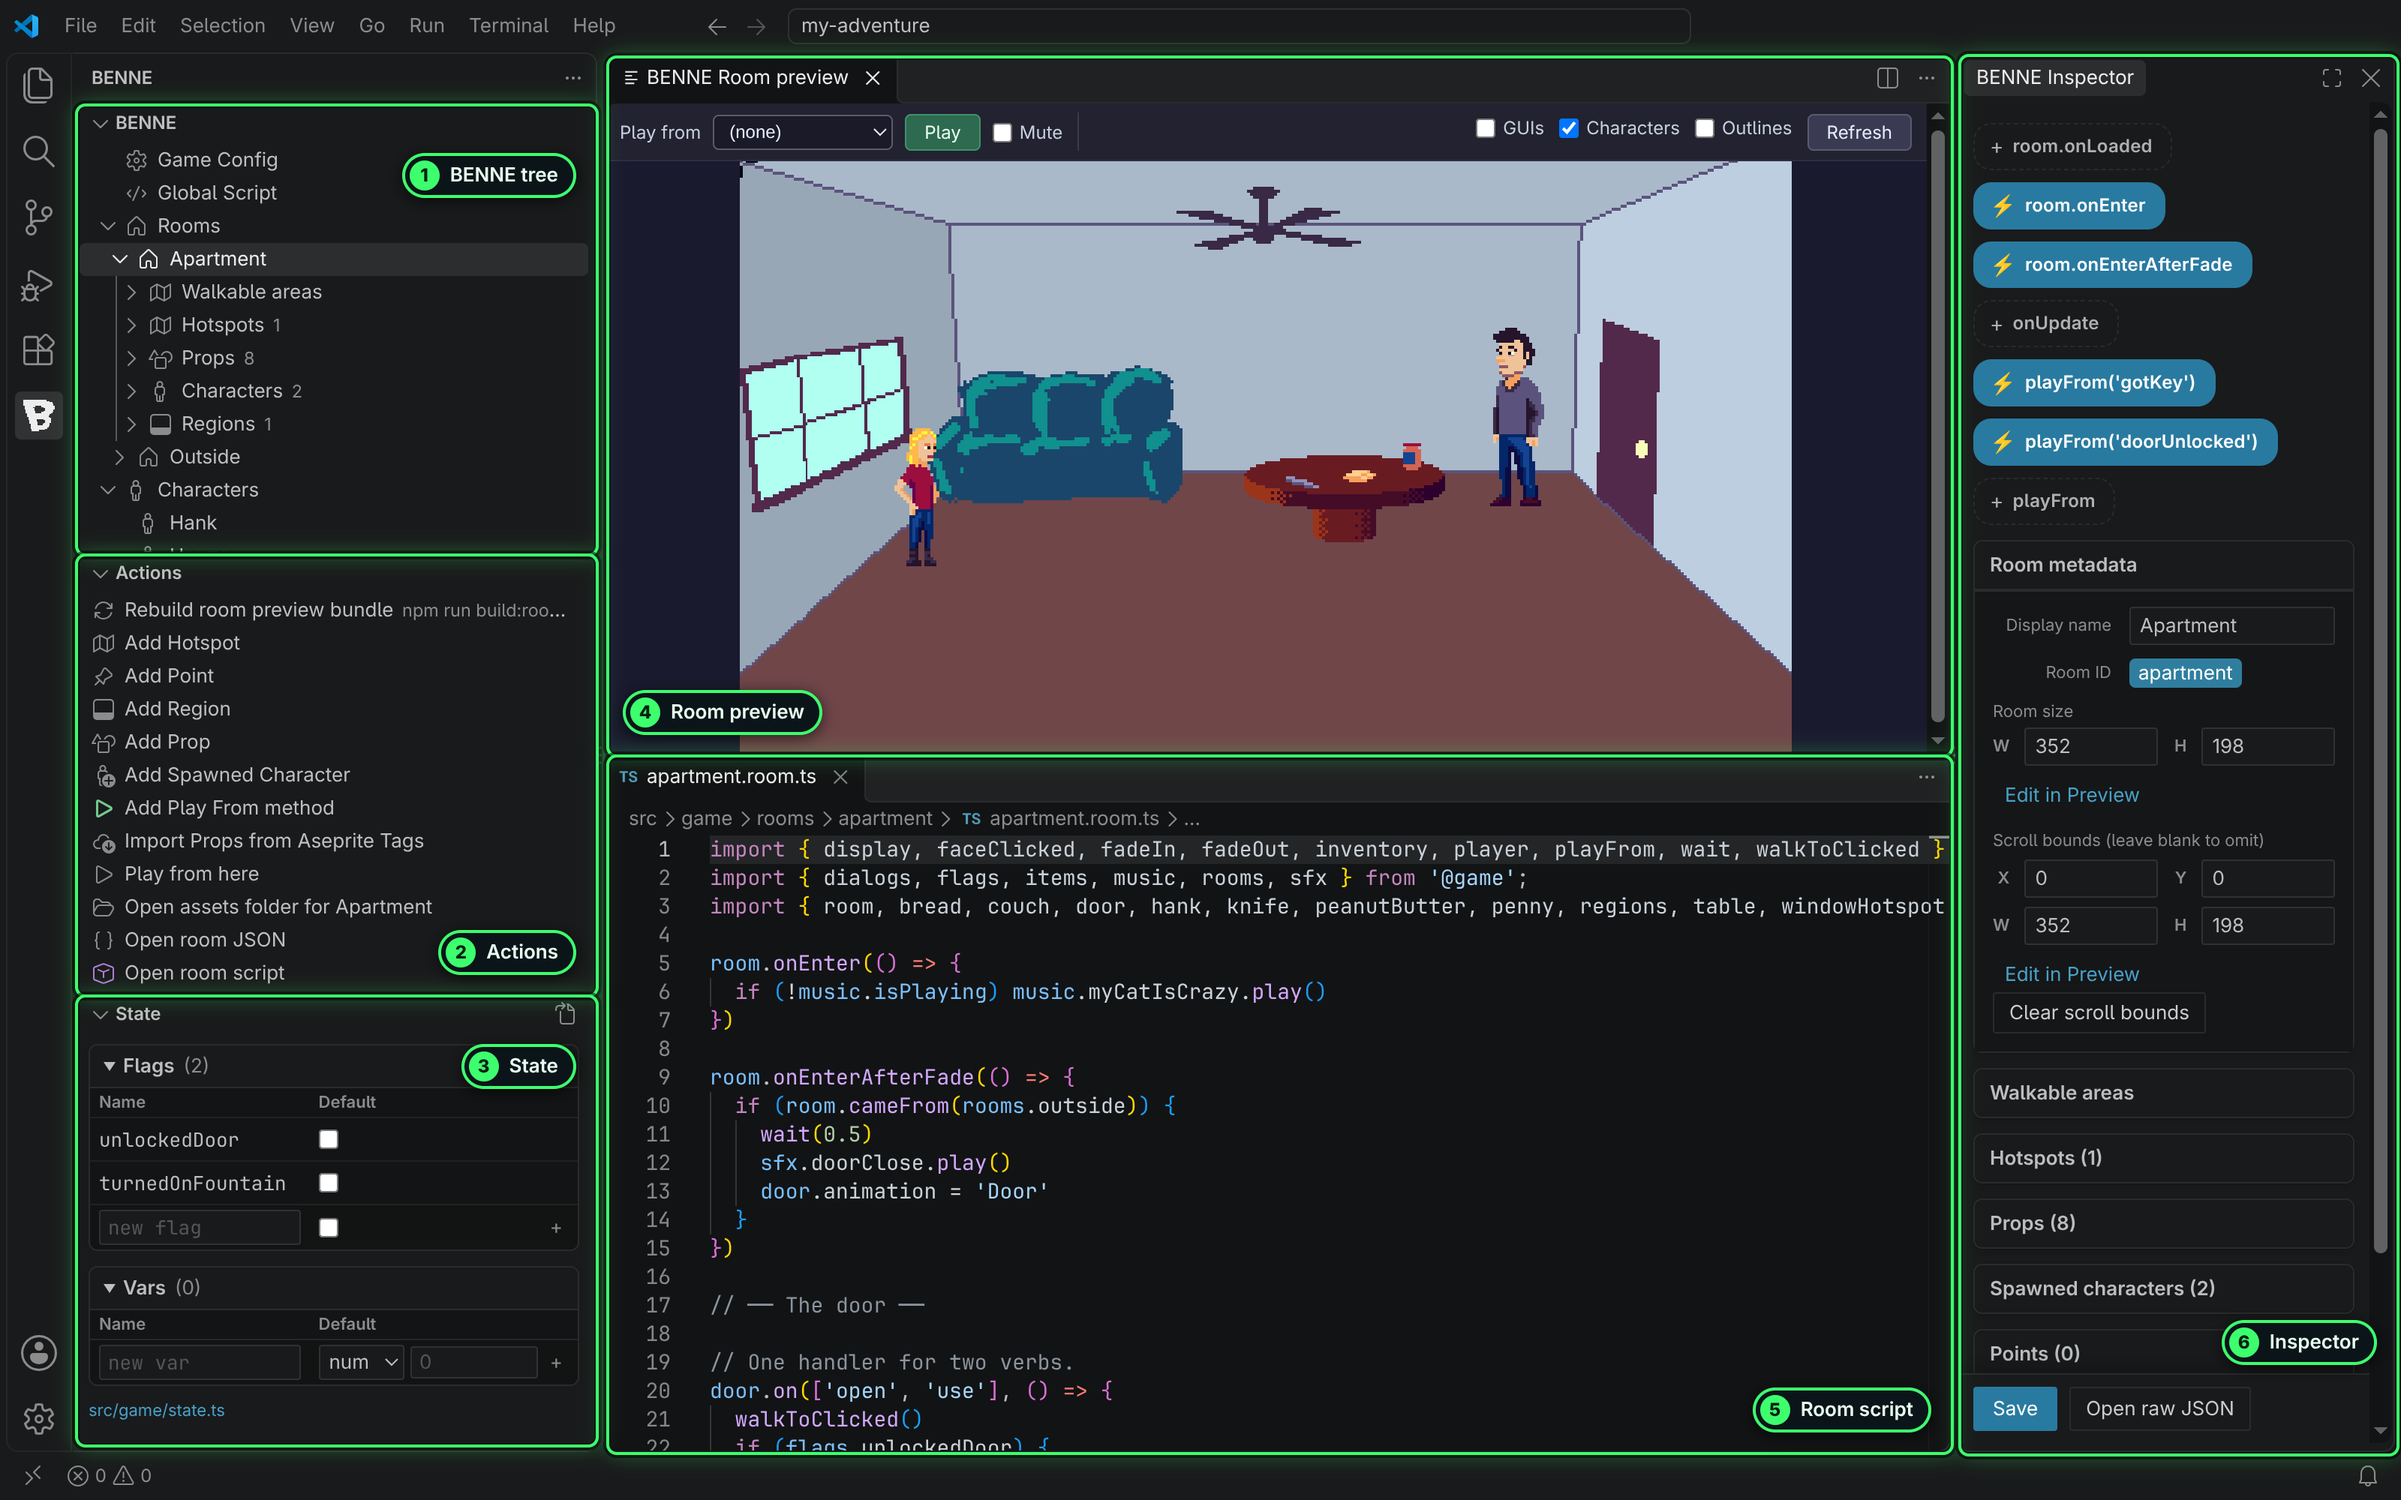
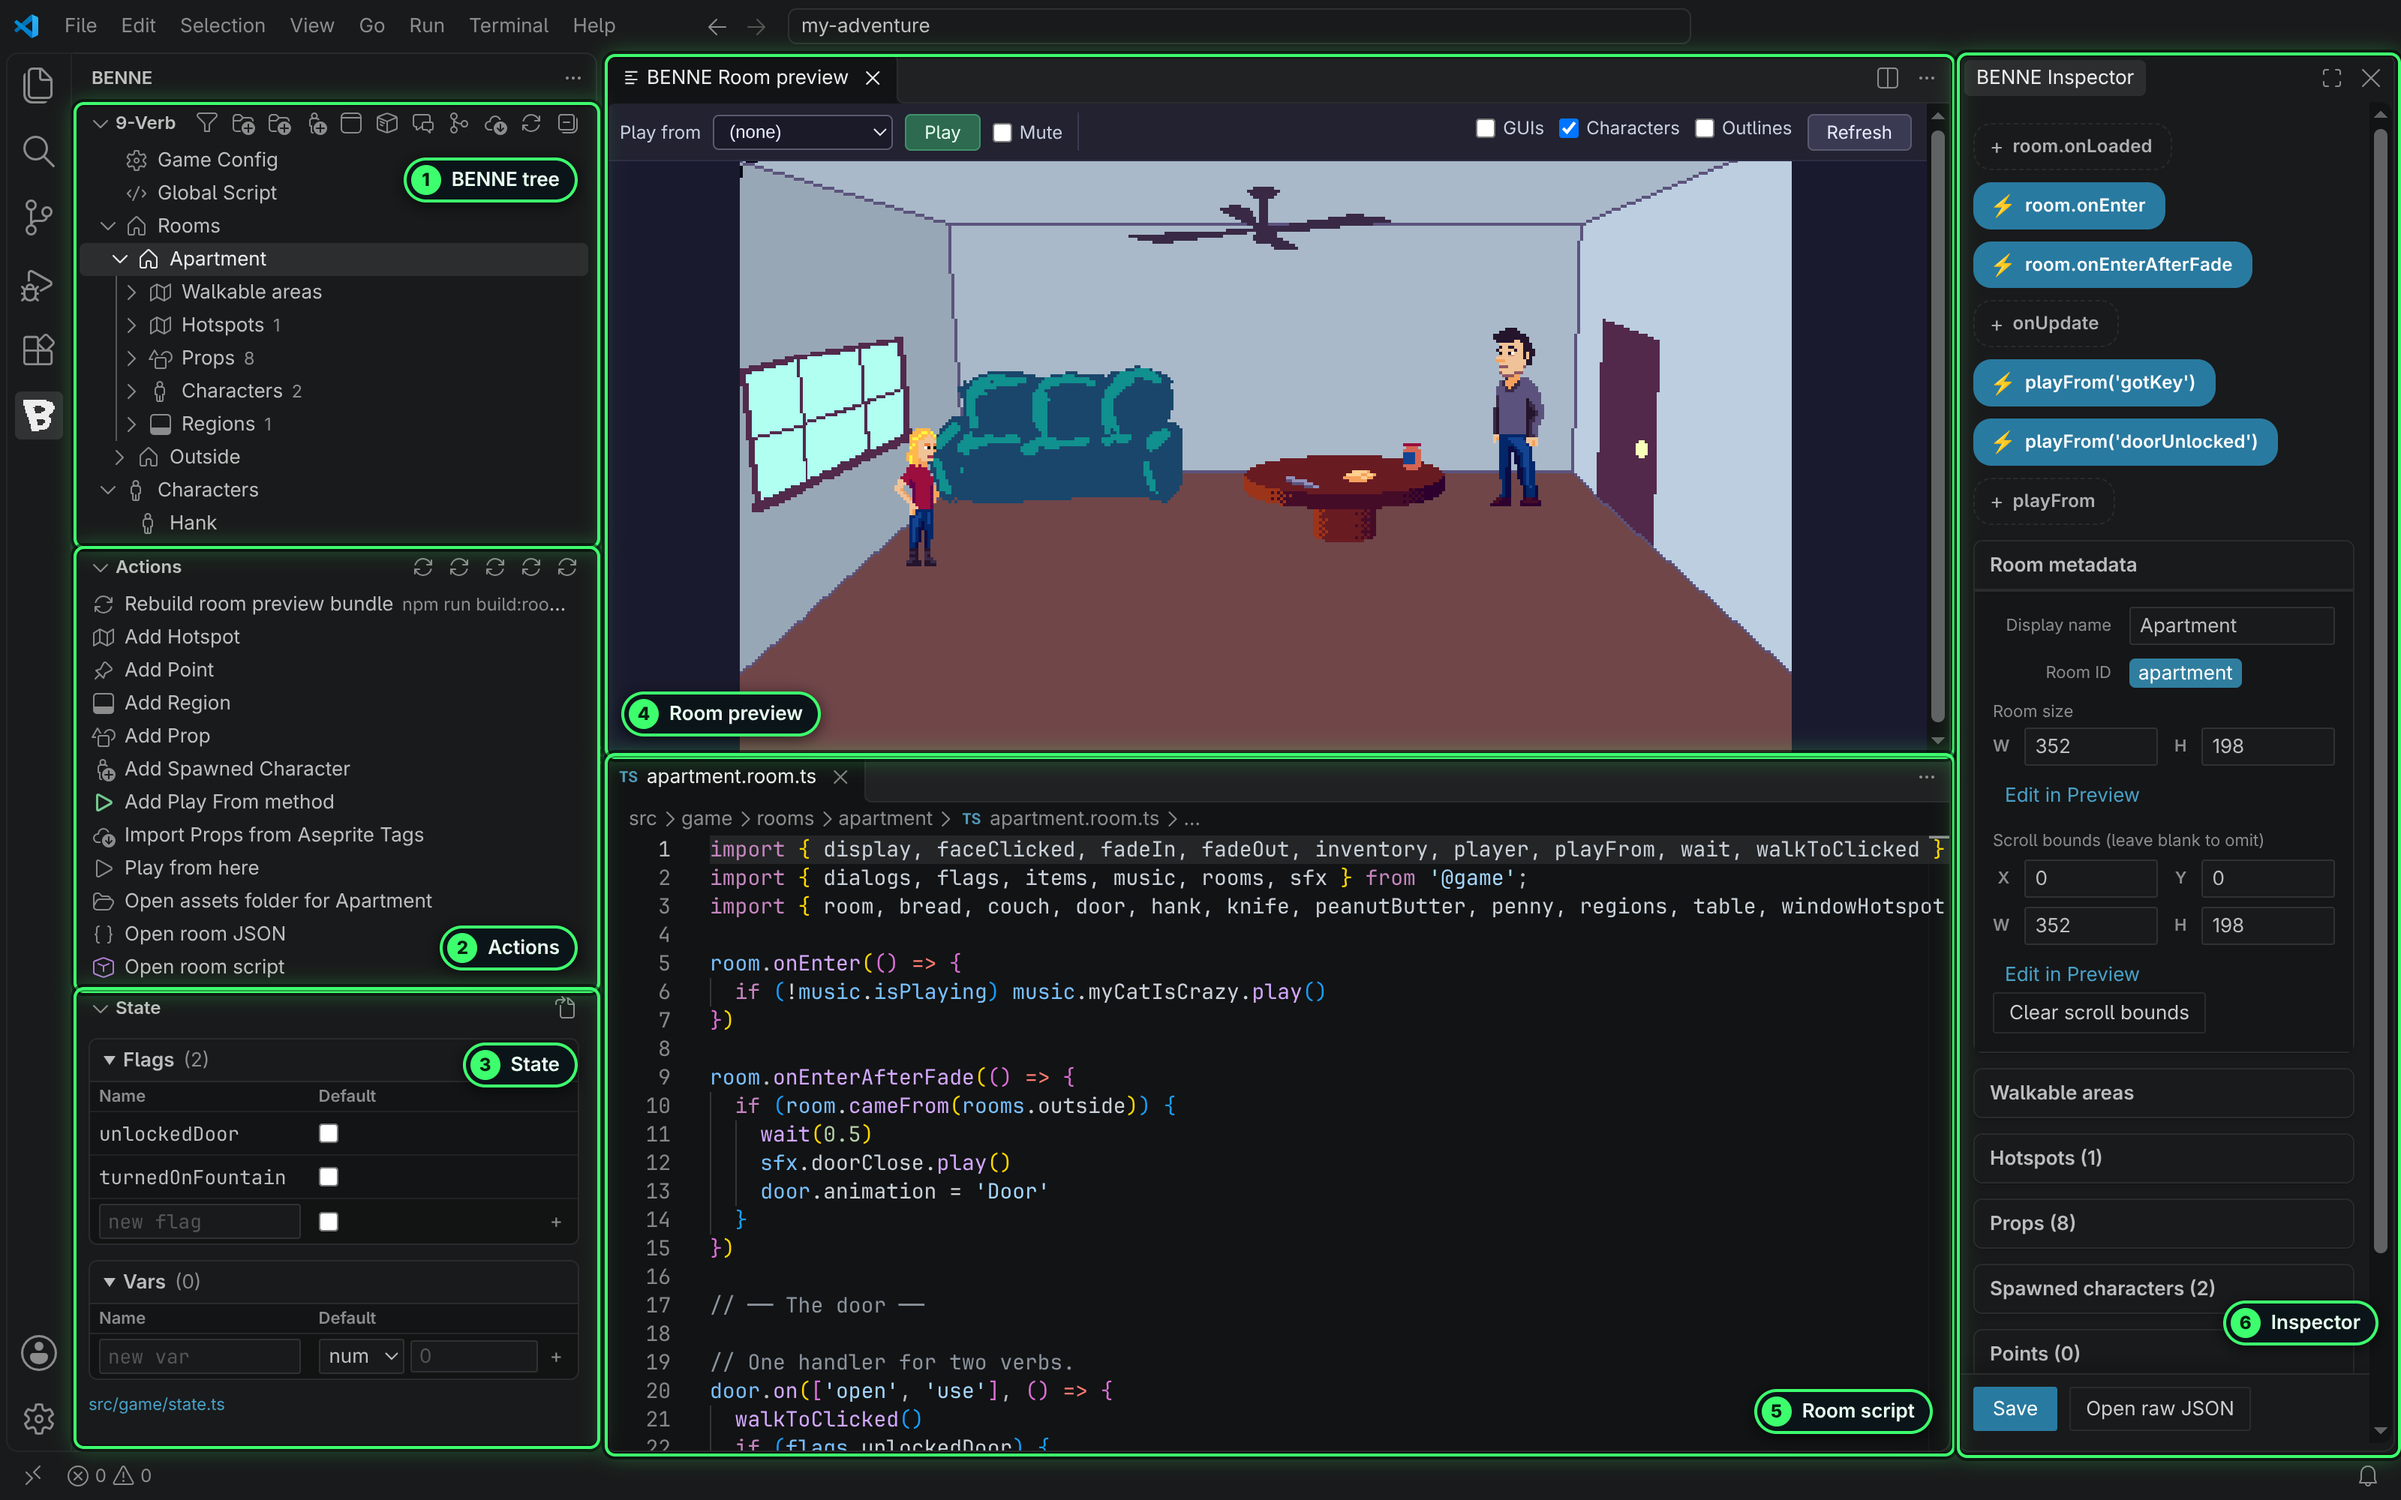
Title the BENNE tree with the game's name
With one game open, the main tree view's header shows the name from
game-config.json, falling back to "BENNE" when there is no name or the
workspace holds several games. Retake the guide screenshots that show the
header, and let the screenshot rig find the tree view without its title.

diff --git a/benne-editor/src/extension.ts b/benne-editor/src/extension.ts
@@ -39,12 +39,14 @@ import {
 import { addCharacterVerbEvent, makeCharacterClickable } from './characterVerbScaffolding';
 import { addInventoryVerbEvent } from './inventoryVerbScaffolding';
 import {
+    findBenneGameFolders,
     getCharacterIdFromCharacterJsonUri,
     getDialogIdFromDialogJsonUri,
     getGuiIdFromGuiJsonUri,
     getPdcIdFromPdcJsonUri,
     getInventoryIdFromInventoryJsonUri,
     getRoomIdFromRoomJsonUri,
+    readGameConfigName,
     readRoomProps
 } from './gameDiscovery';
 import { addRoomCharacterVerbEvent } from './roomCharacterVerbScaffolding';
@@ -197,6 +199,15 @@ export function activate(context: vscode.ExtensionContext): void {
     };
 
     void syncMainTreeFilterUi();
+
+    /** With one game open, the main view is titled with its game-config.json `name`. */
+    const syncMainTreeTitle = async (): Promise<void> => {
+        const gameFolders = await findBenneGameFolders();
+        const name = gameFolders.length === 1 ? await readGameConfigName(gameFolders[0].uri) : undefined;
+        mainTreeView.title = name ?? 'BENNE';
+    };
+
+    void syncMainTreeTitle();
 
     const actionsTreeView = vscode.window.createTreeView('benne-editor.actions', {
         treeDataProvider: actionsProvider,
@@ -562,6 +573,7 @@ export function activate(context: vscode.ExtensionContext): void {
         mainProvider.refresh();
         actionsProvider.refresh();
         void syncMainTreeFilterUi();
+        void syncMainTreeTitle();
         void inspectorProvider.pushState();
         scheduleGenerateGameIds(hintUri);
     };
@@ -1619,6 +1631,7 @@ export function activate(context: vscode.ExtensionContext): void {
 
     const gameConfigWatcher = vscode.workspace.createFileSystemWatcher('**/src/game/game-config.json');
     context.subscriptions.push(
+        vscode.workspace.onDidChangeWorkspaceFolders(() => void syncMainTreeTitle()),
         gameConfigWatcher,
         gameConfigWatcher.onDidChange((uri) => {
             scheduleAutoRoomPreviewRebuild(uri);

diff --git a/benne-editor/src/gameDiscovery.ts b/benne-editor/src/gameDiscovery.ts
@@ -201,6 +201,18 @@ export async function readGameConfigVerbs(gameRoot: vscode.Uri): Promise<GameCon
     }
 }
 
+/** `name` from `src/game/game-config.json`, or undefined when the file or field is unusable. */
+export async function readGameConfigName(gameRoot: vscode.Uri): Promise<string | undefined> {
+    const uri = vscode.Uri.joinPath(gameRoot, 'src', 'game', 'game-config.json');
+    try {
+        const raw = await vscode.workspace.fs.readFile(uri);
+        const name = (JSON.parse(new TextDecoder('utf-8').decode(raw)) as { name?: unknown }).name;
+        return typeof name === 'string' && name.trim().length > 0 ? name.trim() : undefined;
+    } catch {
+        return undefined;
+    }
+}
+
 /**
  * When `game-config.json` is missing or has no valid `resolution`, matches prior editor scaffolding
  * and the internal size called out in docs.

diff --git a/docs/doc-screenshots.md b/docs/doc-screenshots.md
@@ -60,7 +60,7 @@ Keep this list up to date: when you add, retake or remove a screenshot, change i
 
 | File | Section | Set-up | Crop | Callouts |
 |---|---|---|---|---|
-| `overview` | Overview | Apartment selected; all three side bar views open at their default heights; default editor split. | Whole window. | Labelled boxes 1–6: BENNE tree, Actions, State, Room preview, Room script, Inspector. |
+| `overview` | Overview | Fresh start; Apartment selected; all three side bar views open, sashes dragged so Actions starts at y 364 and State at y 658 (State with no scrollbar); default editor split. | Whole window. | Labelled boxes 1–6: BENNE tree, Actions, State, Room preview, Room script, Inspector. |
 | `tree` | The BENNE tree | Apartment and its Props expanded, Door selected; Actions and State collapsed. | Side bar, 880 tall. | 1 the filter and create buttons in the title bar; 2 a room's groups (Walkable areas to Regions); 3 the selected Door row. |
 | `context` | Creating and changing content (also Creating a room §3) | Apartment selected, then right-clicked on its label. | The Apartment row and its menu; the preview's edge behind the menu's right side painted over with the side bar colour. | None. |
 | `inspector` | Inspector | Door selected. | The Inspector, full height. | Badges and legend: 1 a ⚡ verb chip, 2 a + verb chip, 3 Save and Open raw JSON. |
@@ -88,5 +88,5 @@ Keep this list up to date: when you add, retake or remove a screenshot, change i
 | `inventory-play` | Inventory item → 4. give it to the player | BENNE Play from the Apartment (Mute); Give Bread. | The BENNE Play webview (x 410, y 66, w 872, h 546). | 1 the inventory panel; 2 the Inventory menu and Give button. |
 | `dialog` | Dialog → 2. write the options | ChatWithPenny selected; its `door` option expanded (click the option's row, not Add option). | Script and Inspector (h 820). | Badges and legend 1–6: Add option, text, enabled, say line, Script…, the `door` handler. |
 | `dialog-play` | Dialog → How it looks | BENNE Play; Talk to Penny; wait for the choices. | As `inventory-play`. | 1 the list of options. |
-| `gui` | GUI → GUI settings | Game Menu selected (its controls show in the tree); preview 540. | Side bar, editors and Inspector (x 48, w 1548, h 724). | Badges and legend 1–5: controls in the tree, preview, visible/modal/zIndex, GUI handler chips, a control handler in the script. |
+| `gui` | GUI → GUI settings | Outside expanded, Apartment collapsed; Game Menu selected and expanded (its controls show in the tree); preview 544 (at 540 the GUI preview gets scrollbars); Inspector scrolled to the top. | Side bar, editors and Inspector (x 48, w 1548, h 724). | Badges and legend 1–5: controls in the tree, preview, visible/modal/zIndex, GUI handler chips, a control handler in the script. |
 | `gui-control` | GUI → Arranging controls | Game Menu → `button (resume)` selected. | Preview, script and Inspector (h 882). | Badges and legend 1–5: gizmo, text and font, position and size, grid placement, On Click. |

diff --git a/website/guide/benne-editor.md b/website/guide/benne-editor.md
@@ -24,7 +24,7 @@ This page is a tour of the editor itself. For step-by-step guides to making each
 
 When the extension is installed, a **BENNE** icon appears in the VS Code Activity Bar. Clicking it reveals the BENNE sidebar, which contains three views:
 
-- **BENNE** (the main tree): a structured outline of your whole game: rooms, characters, GUIs, inventory, dialogs and puzzle charts, each expandable down to individual props, hotspots, regions, points, walkable areas and controls.
+- **The BENNE tree**, titled with your game's `name` from `game-config.json`: a structured outline of your whole game: rooms, characters, GUIs, inventory, dialogs and puzzle charts, each expandable down to individual props, hotspots, regions, points, walkable areas and controls.
 - **Actions**: buttons for rebuilding preview bundles, plus workspace-level helpers such as **Process Game Voice IDs**.
 - **State**: your game's flags and variables, with their defaults (see [State](#state)).
 
